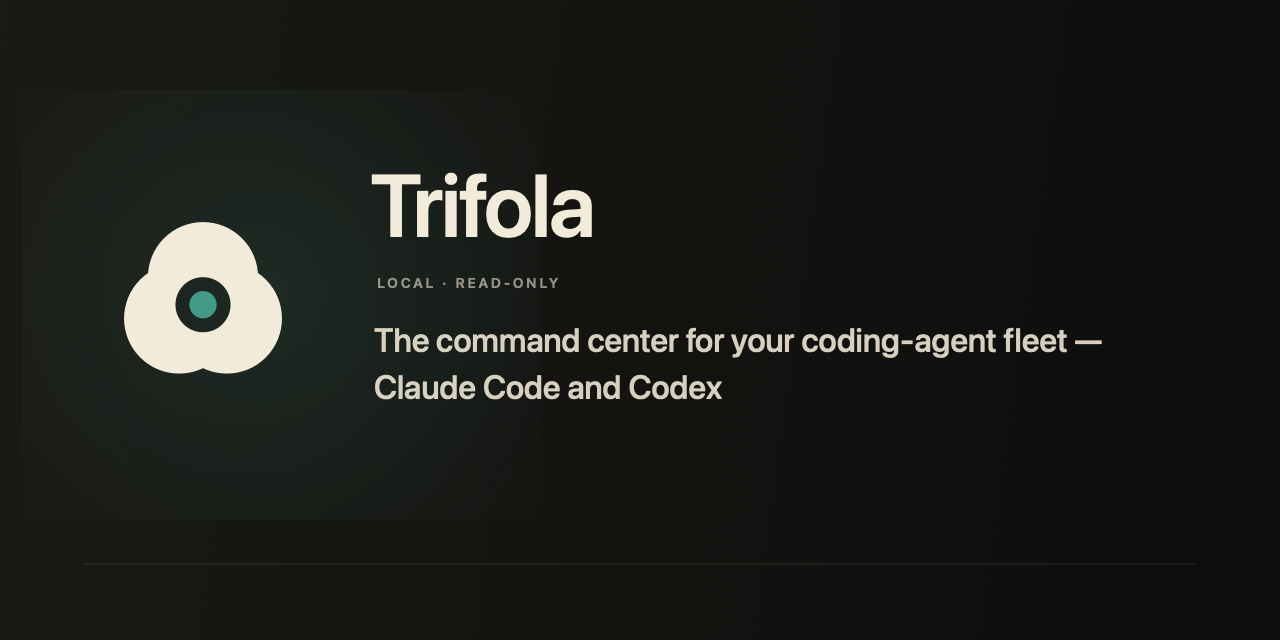
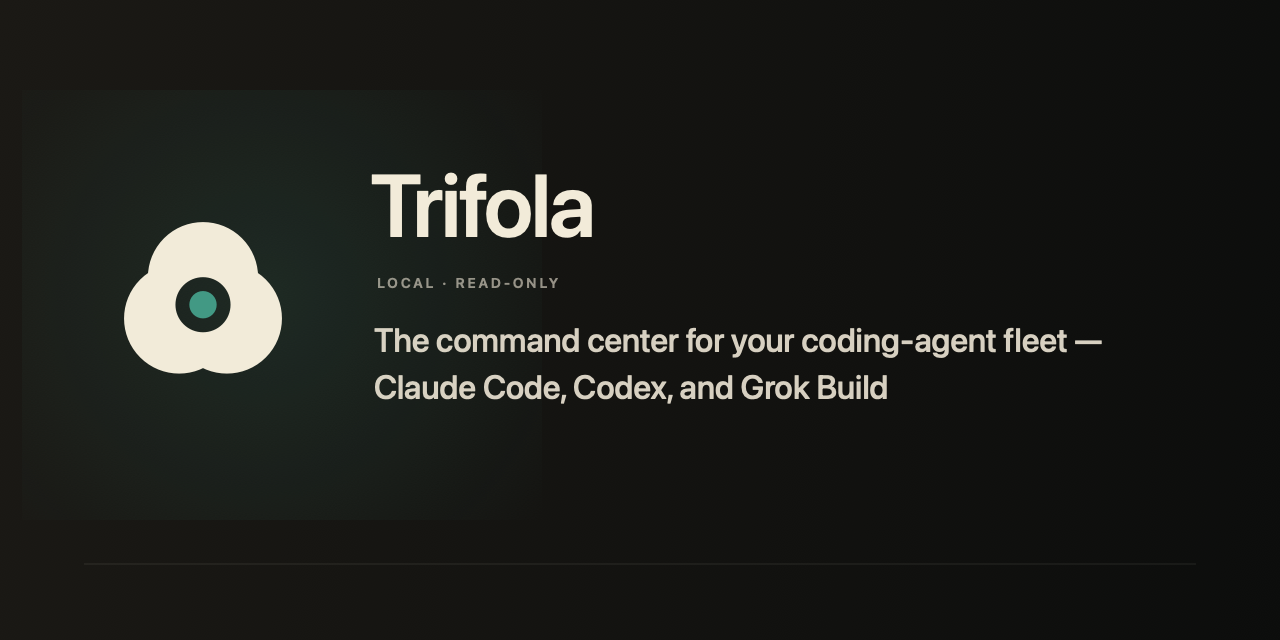
no-mistakes(document): regenerate brand assets and alt text for Grok Build

Changed region(s): [[0.4375, 0.5625, 0.7188, 0.625]]

diff --git a/Sources/Trifola/Render.swift b/Sources/Trifola/Render.swift
@@ -462,7 +462,7 @@ enum BrandAssetRender {
             .kern: 2.6,
         ]).draw(at: NSPoint(x: 377, y: 349))
 
-        let claim = "The command center for your coding-agent fleet —\nClaude Code and Codex"
+        let claim = "The command center for your coding-agent fleet —\nClaude Code, Codex, and Grok Build"
         let paragraph = NSMutableParagraphStyle()
         paragraph.lineSpacing = 8
         NSAttributedString(string: claim, attributes: [

diff --git a/README.md b/README.md
@@ -1,6 +1,6 @@
 <div align="center">
 
-<img src="docs/assets/banner.png" alt="Trifola — the command center for your Claude Code and Codex fleet" width="680">
+<img src="docs/assets/banner.png" alt="Trifola — the command center for your Claude Code, Codex, and Grok Build fleet" width="680">
 
 # trifola
 